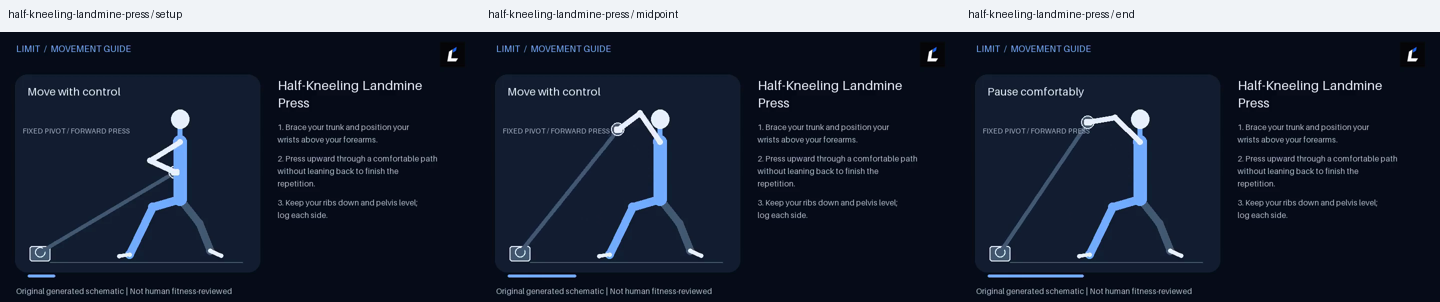
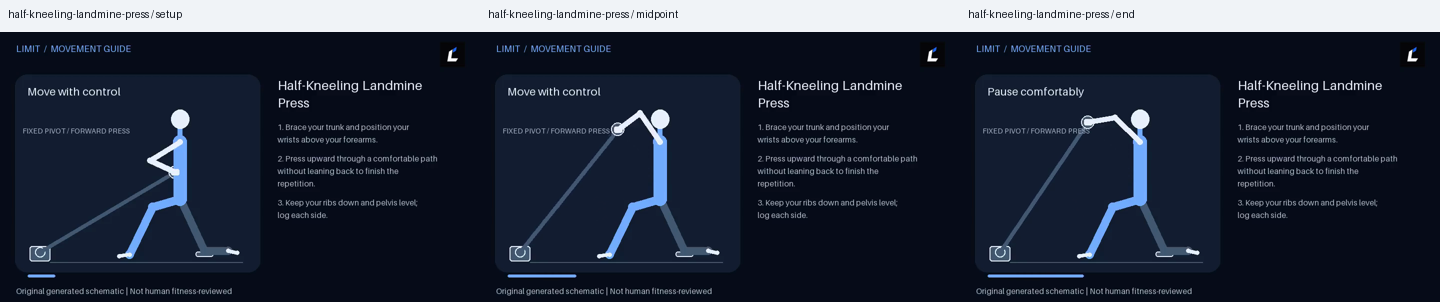
Fix half-kneeling landmine rear knee floor contact

Changed region(s): [[0.7812, 0.6854, 0.8438, 0.8642], [0.4375, 0.6854, 0.5, 0.8642], [0.125, 0.6854, 0.1875, 0.8642]]

diff --git a/scripts/media/render.py b/scripts/media/render.py
@@ -1939,10 +1939,13 @@ def draw_pose(d,kind,option,u):
   d.line([xy(pivot),xy(hand)],fill=FAR,width=9)
   d.ellipse((hand[0]-13,hand[1]-13,hand[0]+13,hand[1]+13),fill=FAR,outline=INK,width=2)
   if option=='half-kneeling':
-   rear_knee=(420,437);front_foot=(259,445)
-   limb(d,[hip,(398,382),rear_knee],FAR,16)
-   limb(d,[hip,(305,350),front_foot],BLUE,17)
-   line(d,rear_knee,(442,447),INK,8);line(d,front_foot,(238,448),INK,8)
+   floor_y=445;rear_knee=(408,437);rear_foot=(456,437)
+   front_knee=(305,350);front_foot=(259,floor_y)
+   if rear_knee[1]<floor_y-9 or rear_foot[1]!=rear_knee[1] or front_foot[1]!=floor_y:raise ValueError('Half-kneeling rear knee or front foot lost floor contact')
+   d.rounded_rectangle((391,439,426,449),4,fill=FAR,outline=INK,width=2)
+   limb(d,[hip,rear_knee,rear_foot],FAR,16)
+   limb(d,[hip,front_knee,front_foot],BLUE,17)
+   line(d,rear_foot,(474,441),INK,8);line(d,front_foot,(238,448),INK,8)
   else:
    limb(d,[hip,(334,393),(315,445)],BLUE,17)
    limb(d,[hip,(395,393),(413,445)],FAR,16)

diff --git a/docs/exercise-media.md b/docs/exercise-media.md
@@ -329,8 +329,10 @@ The hundred-and-thirty-first batch adds `glute-ham-raise` on a fixed footplate, 
 
[1 lines of base64/hex data omitted]
 
[2 lines of base64/hex data omitted]
 
[1 lines of base64/hex data omitted]
 
[1 lines of base64/hex data omitted]
+
[1 lines of base64/hex data omitted]
